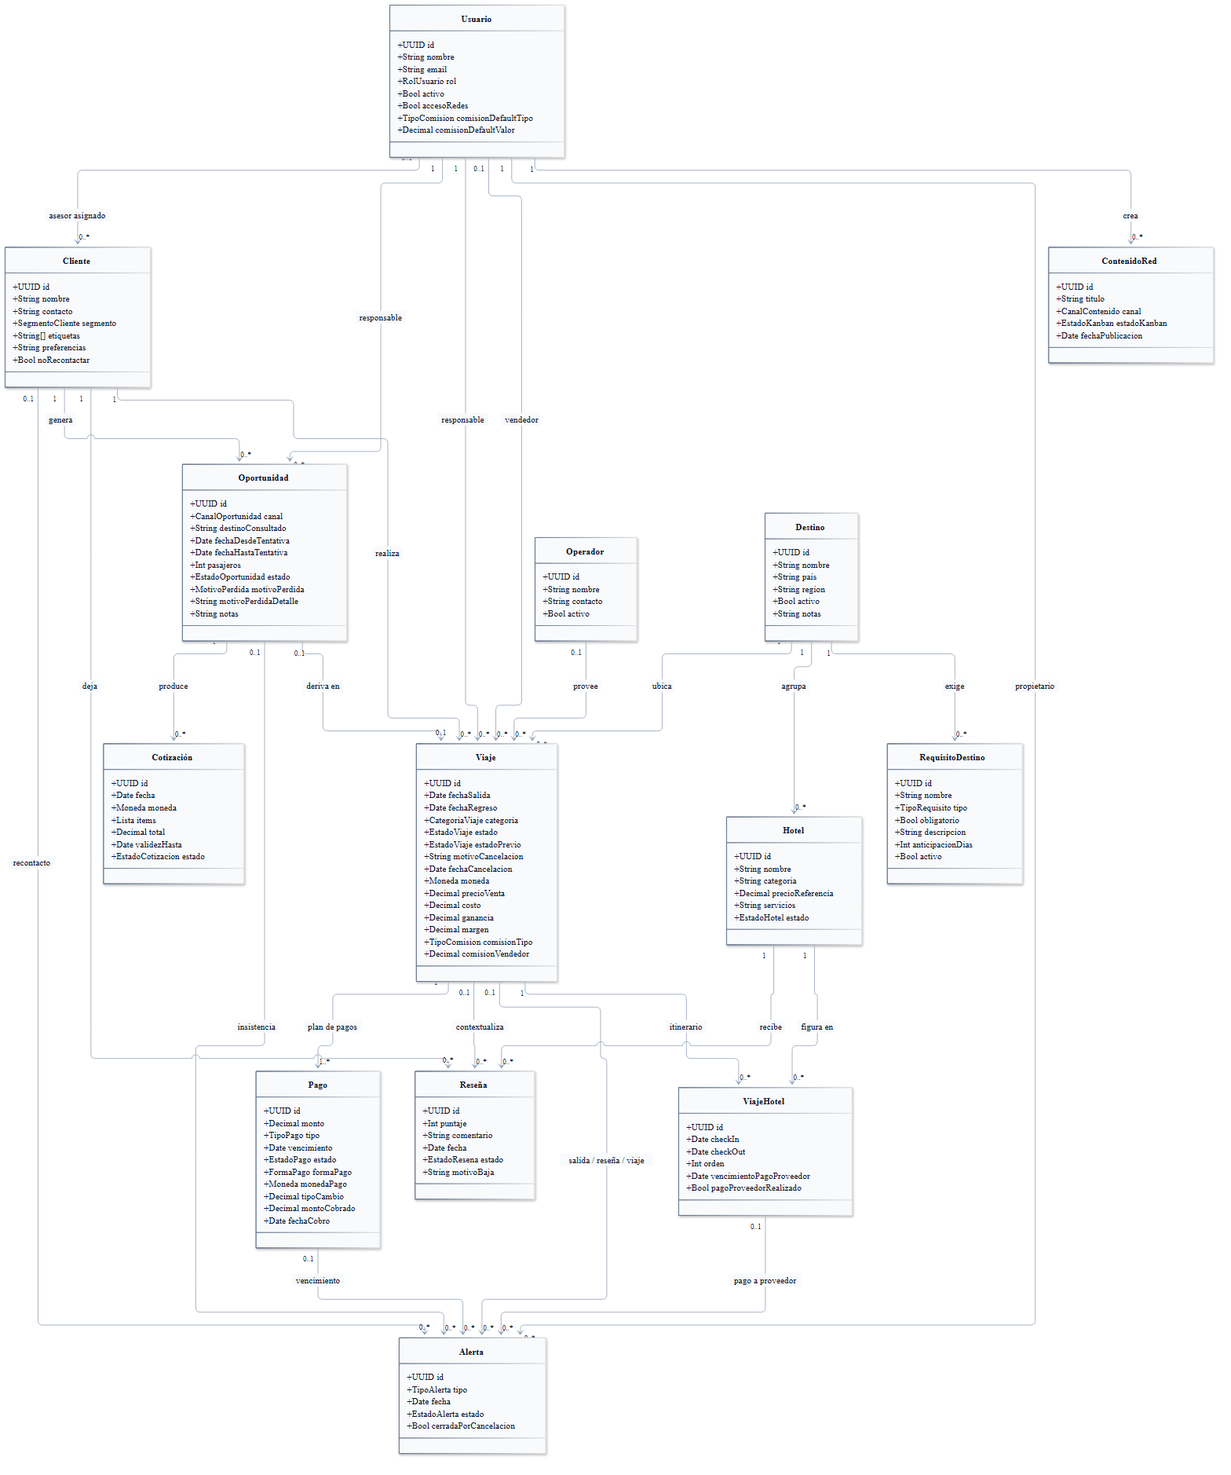
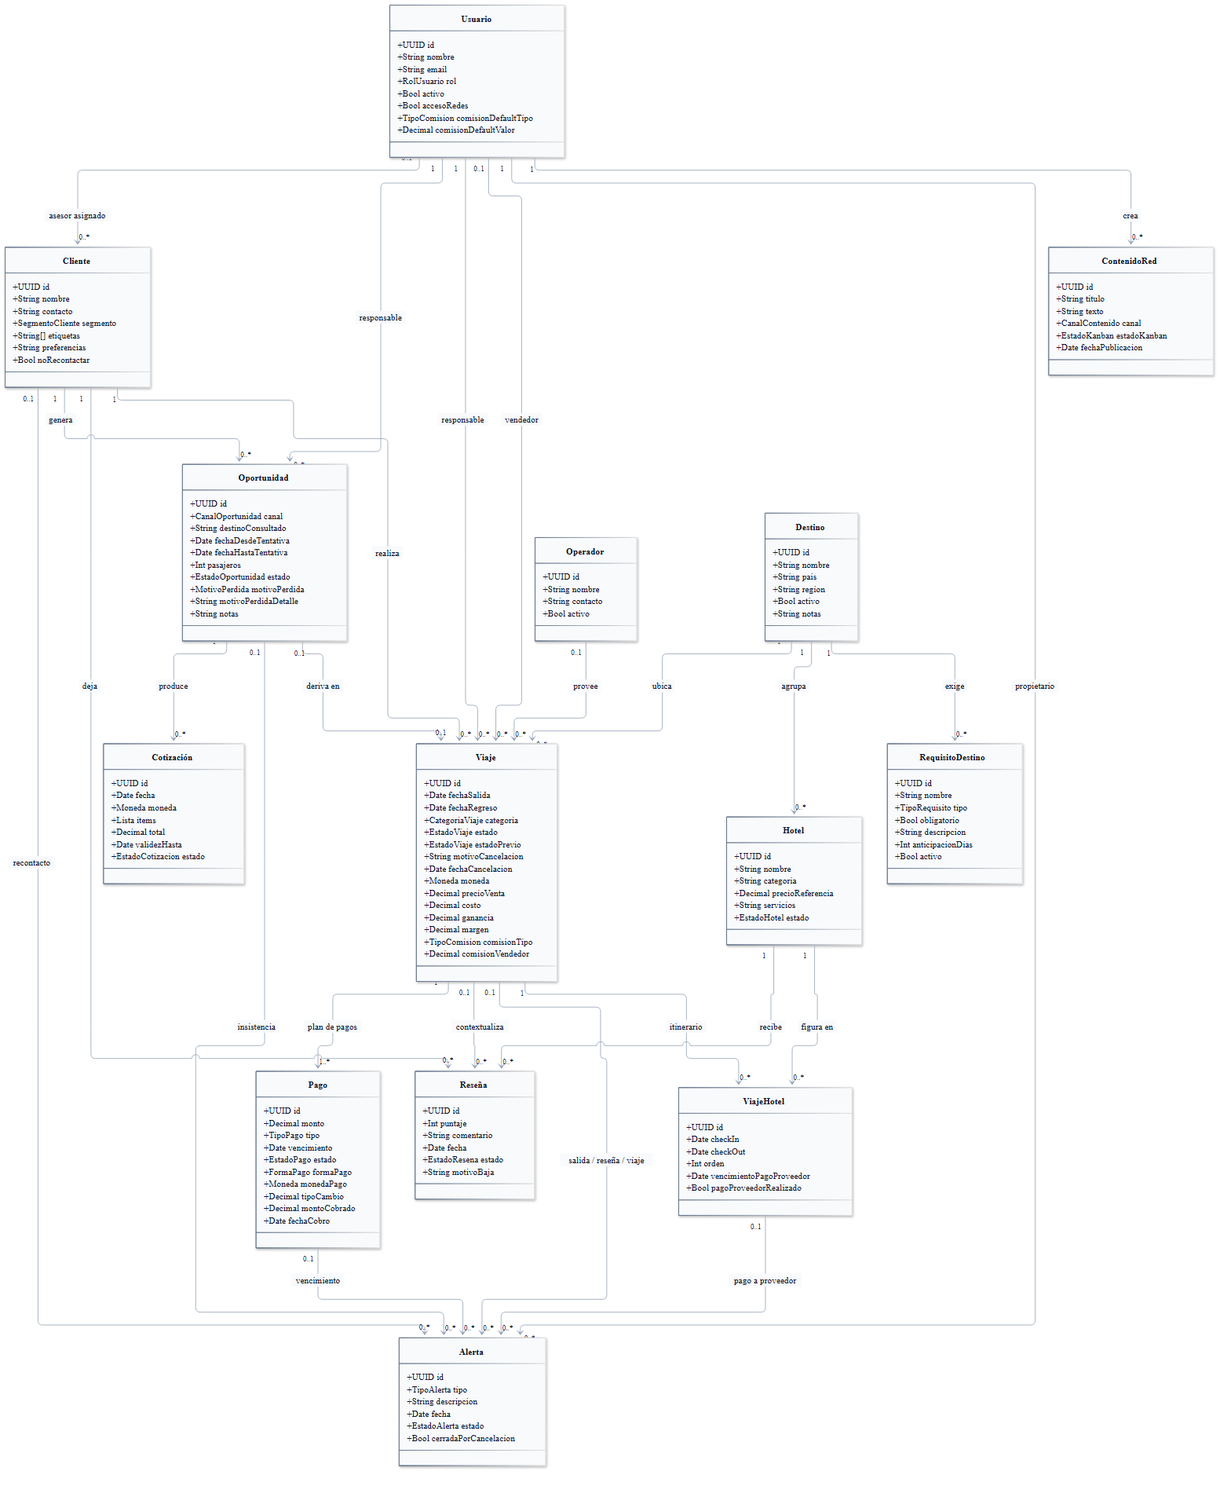
DEC-0013: descripción de la alerta y texto del contenido; quitar un tramo deja su alerta sin origen

diff --git a/05-Diseño/Decisiones/DEC-0013 Datos que faltaban en el ER.md b/05-Diseño/Decisiones/DEC-0013 Datos que faltaban en el ER.md
@@ -14,7 +14,7 @@ tags:: #tipo/decision #estado/en-revision #pc/pc1
 > ⏳ **Aprobada por Nahuel el 29/09/26**, al escribir el script SQL (F2) y el contrato OpenAPI (F1). Se ratifica con el equipo en el cierre del día 2 (A6), junto con ARQ.
 
 ## Contexto
-Al pasar el [[DGM-ER]] a SQL y al derivar los endpoints aparecieron nueve datos que los casos de uso y las decisiones ya piden, pero que el ER no tenía dónde guardar:
+Al pasar el [[DGM-ER]] a SQL y al derivar los endpoints aparecieron once datos que los casos de uso y las decisiones ya piden, pero que el ER no tenía dónde guardar:
 1. [[CU-12 Registrar cobro de un pago|CU-12]] pide la **fecha efectiva del cobro**, y `PAGO` no tenía esa columna.
 2. La **vigencia de la cotización** (1 mes), la **anticipación de la alerta `salida`** (7 días) y el **plazo del recontacto** (6 meses) son configurables por `admin` ([[CU-06 Emitir cotización|CU-06]], [[CU-07 Confirmar reserva|CU-07]], [[CU-30 Sugerir recontacto de clientes|CU-30]]), pero no había tabla de parámetros.
 3. La comisión del vendedor es **importe o porcentaje**, con **default por vendedor** y override por viaje ([[DEC-0007 Modelo económico — ganancia, margen y comisión de vendedor|DEC-0007]], [[CU-13 Configurar porcentaje de comisión|CU-13]]), pero el ER solo tenía `VIAJE.comision_vendedor` como número, sin tipo y sin default en `USUARIO`.
@@ -24,6 +24,8 @@ Al pasar el [[DGM-ER]] a SQL y al derivar los endpoints aparecieron nueve datos 
 7. Los requisitos de [[CU-04 Registrar consulta|CU-04]] y [[CU-05 Seguir oportunidad|CU-05]] piden guardar las **notas** de la consulta y del seguimiento, y `OPORTUNIDAD` no tenía dónde.
 8. Tres requisitos piden guardar un **motivo**: el de pérdida de la `Oportunidad` (lista fija), el de cancelación del `Viaje` (con su fecha, [[CU-27 Cancelar viaje|CU-27]]) y el de baja de una `Reseña` ([[CU-29 Eliminar reseña|CU-29]]). Ninguno estaba en el ER.
 9. En [[CU-09 Armar itinerario de hoteles|CU-09]], cada tramo puede tener su alerta de pago al proveedor, y al editar o pagar el tramo se cierra «su» alerta. Como `ALERTA` solo podía colgar del viaje, con dos tramos no se sabía cuál era cuál.
+10. [[CU-28 Crear recordatorio manual|CU-28]] pide cargar una **descripción** de la tarea, y las alertas automáticas también necesitan un texto; `ALERTA` no tenía ninguno.
+11. [[CU-20 Generar propuesta de contenido con IA|CU-20]] guarda el borrador elegido en una pieza de `ContenidoRed`, pero `CONTENIDO_RED` solo tenía título.
 
 ## Decisión
 1. **`PAGO.fecha_cobro`** (`date`, nullable): se carga al cobrar, junto con `forma_pago` y `moneda_pago`, y se borra si se revierte el cobro.
@@ -35,6 +37,8 @@ Al pasar el [[DGM-ER]] a SQL y al derivar los endpoints aparecieron nueve datos 
 7. **`OPORTUNIDAD.notas`** (`text`, nullable): una bitácora libre que se va editando. Se descartó una tabla de interacciones porque sumaba una entidad nueva a días del PC1; queda como mejora posible.
 8. **Motivos:** `OPORTUNIDAD.motivo_perdida` (nuevo enum `motivo_perdida`: `precio`, `fechas_disponibilidad`, `desistio`, `otra_agencia`, `sin_respuesta`, `otro`) y `motivo_perdida_detalle` (texto, si es `otro`); `VIAJE.motivo_cancelacion` y `fecha_cancelacion`; `RESENA.motivo_baja`. Todos nullable y cargados solo en el estado que corresponde.
 9. **`ALERTA.viaje_hotel_id`** (nullable) como **quinto origen**; el CHECK pasa a «a lo sumo uno de cinco».
+10. **`ALERTA.descripcion`** (`text`, obligatoria): la escribe el empleado en CU-28 y la arma el sistema en las alertas automáticas.
+11. **`CONTENIDO_RED.texto`** (`text`, nullable): el cuerpo del posteo, escrito a mano o completado con el borrador de la IA.
 
 ## Alternativas consideradas
 | Opción | Pros | Contras | ¿Elegida? |
@@ -45,7 +49,7 @@ Al pasar el [[DGM-ER]] a SQL y al derivar los endpoints aparecieron nueve datos 
 | Guardar siempre la comisión como importe ya calculado | Más simple | Se pierde qué porcentaje se aplicó | ❌ |
 
 ## Impacto
-- [[DGM-ER]], [[DGM — Diagrama de clases]] (nuevos enums `TipoComision` y `MotivoPerdida`: son 20) y las notas de [[Pago]], [[Usuario]], [[Viaje]], [[Oportunidad]], [[Reseña]] y [[Alerta]].
+- [[DGM-ER]], [[DGM — Diagrama de clases]] (nuevos enums `TipoComision` y `MotivoPerdida`: son 20) y las notas de [[Pago]], [[Usuario]], [[Viaje]], [[Oportunidad]], [[Reseña]], [[Alerta]] y [[ContenidoRed]].
 - [[Modelo de datos SQL]]: pasa a 15 tablas y 20 enumeraciones.
 - [[Contrato de la API (OpenAPI)]]: los esquemas del circuito de CU-01 y los endpoints de configuración, baja de usuarios, pérdida de oportunidades y cancelación de viajes.
 

diff --git a/03-Dominio/Diagramas/DGM-ER.md b/03-Dominio/Diagramas/DGM-ER.md
@@ -172,6 +172,7 @@ erDiagram
         uuid cliente_id FK "nullable, origen"
         uuid viaje_hotel_id FK "nullable, origen"
         enum tipo "pago, formulario, salida, insistencia, reseña, manual, recontacto, viaje"
+        text descripcion "texto de la tarea, DEC-0013"
         date fecha
         enum estado "pendiente, vista, resuelta"
         boolean cerrada_por_cancelacion "default false"
@@ -180,6 +181,7 @@ erDiagram
         uuid id PK
         uuid usuario_id FK
         varchar titulo
+        text texto "nullable, cuerpo del posteo, DEC-0013"
         enum canal "instagram, tiktok, whatsapp_ventas"
         enum estado_kanban "idea, en_produccion, listo, publicado, descartado"
         date fecha_publicacion "programada"
@@ -230,7 +232,7 @@ erDiagram
 - **Auditoría:** [[DEC-0008 Autenticación propia y rol de vendedor freelance]] exige registrar **autor y fecha** de las acciones. **Decidido en la sync del 29/09:** `created_by` / `updated_by` (FK a `USUARIO`) y `created_at` / `updated_at` van en **todas las tablas de entidad**, operativas y catálogos (las 13 entidades; la tabla asociativa `VIAJE_HOTEL` hereda la auditoría de `VIAJE`). No se dibujan en el diagrama para no multiplicar las líneas hacia `USUARIO`. **`created_by` y `updated_by` son nullable** (aprobado el 29/09): lo que hace el proceso automático diario los deja **vacíos**, y un autor vacío se lee como «lo hizo el sistema». `created_at` y `updated_at` siempre se cargan.
 - `VIAJE.destino_id` y `HOTEL.destino_id` son FK a `DESTINO` (antes texto libre): ver [[DEC-0006 Destino como entidad de catálogo]]. `OPORTUNIDAD.destino_consultado` sigue siendo **texto libre** y se normaliza recién al derivar en `VIAJE`.
 - `VIAJE` suma `operador_id`, `vendedor_id`, `moneda`, `costo`, `ganancia`, `margen` y `comision_vendedor` — ver [[DEC-0007 Modelo económico — ganancia, margen y comisión de vendedor]] y [[DEC-0009 Operador-Proveedor como entidad de catálogo]] (sync 17/09). `ganancia` y `margen` son **calculados**: se pueden materializar como columnas generadas o resolver en la vista.
-- **Datos sumados al escribir el SQL** ([[DEC-0013 Datos que faltaban en el ER]], 29/09, a ratificar): `PAGO.fecha_cobro`; `VIAJE.comision_tipo` (`importe` o `porcentaje`), `VIAJE.estado_previo` (para revertir una cancelación), `VIAJE.motivo_cancelacion` y `fecha_cancelacion`; en `OPORTUNIDAD`, `notas` y el motivo de pérdida (lista fija más detalle si es `otro`); `RESENA.motivo_baja`; `ALERTA.viaje_hotel_id` como quinto origen; en `USUARIO`, `activo` (baja lógica), `acceso_redes` y la comisión por defecto del vendedor (`comision_default_tipo` y `comision_default_valor`); y la tabla **`CONFIGURACION`**, de una sola fila, con los parámetros que edita `admin` (vigencia de la cotización, anticipación de la alerta `salida` y plazo del recontacto). `CONFIGURACION` es una tabla de parámetros, no una entidad del dominio, y no se relaciona con las demás. Con ella el esquema tiene **15 tablas**.
+- **Datos sumados al escribir el SQL** ([[DEC-0013 Datos que faltaban en el ER]], 29/09, a ratificar): `PAGO.fecha_cobro`; `VIAJE.comision_tipo` (`importe` o `porcentaje`), `VIAJE.estado_previo` (para revertir una cancelación), `VIAJE.motivo_cancelacion` y `fecha_cancelacion`; en `OPORTUNIDAD`, `notas` y el motivo de pérdida (lista fija más detalle si es `otro`); `RESENA.motivo_baja`; `ALERTA.viaje_hotel_id` como quinto origen y `ALERTA.descripcion`; `CONTENIDO_RED.texto`; en `USUARIO`, `activo` (baja lógica), `acceso_redes` y la comisión por defecto del vendedor (`comision_default_tipo` y `comision_default_valor`); y la tabla **`CONFIGURACION`**, de una sola fila, con los parámetros que edita `admin` (vigencia de la cotización, anticipación de la alerta `salida` y plazo del recontacto). `CONFIGURACION` es una tabla de parámetros, no una entidad del dominio, y no se relaciona con las demás. Con ella el esquema tiene **15 tablas**.
 - `COTIZACION.items` se modela como **`jsonb`**, no como tabla propia: decidido el 21/09 no promoverlo a entidad ([[DGM — Diagrama de clases]], punto 4). Si más adelante hacen falta reportes por concepto, se reabre.
 - Relación N:M `VIAJE`–`HOTEL` y objeto de la `RESENA` (Hotel + Cliente, con Viaje opcional): ver [[DEC-0003 Relación Viaje–Hotel y Reseña]].
 

diff --git a/05-Diseño/Datos/Modelo de datos SQL.md b/05-Diseño/Datos/Modelo de datos SQL.md
@@ -26,7 +26,7 @@ tags:: #tipo/analisis #estado/borrador #pc/pc1
   - Estados con datos propios: una `oportunidad` `perdida` exige su motivo; un `viaje` `cancelado` exige estado previo, motivo y fecha de cancelación (y fuera de ese estado los tres quedan vacíos); una `resena` `oculta` exige el motivo de la baja.
   - `configuracion` admite una sola fila (`id = 1`).
   - Chequeos de sentido común: fechas de regreso y de check-out que no quedan antes de las de inicio, puntaje de reseña de 1 a 5, montos no negativos y al menos un pasajero.
-- **Bajas lógicas:** ninguna FK borra en cascada, porque en Rumbo nada se elimina físicamente.
+- **Bajas lógicas:** ninguna FK borra en cascada, porque en Rumbo nada se elimina físicamente (RF-153). La única eliminación física prevista es **quitar un tramo** del itinerario (CU-09 A3), que es una fila de asociación: por eso `alerta.viaje_hotel_id` usa `ON DELETE SET NULL` y la alerta ya cerrada del tramo se conserva sin origen.
 
 ## Lo que queda en la API y no en la base
 - **Todo viaje tiene al menos un pago** (`VIAJE ||--|{ PAGO`): una FK no puede exigir filas hijas, así que lo garantiza el servicio de CU-07.
@@ -38,8 +38,8 @@ tags:: #tipo/analisis #estado/borrador #pc/pc1
 - Largos de `varchar` y precisión de `numeric` (`numeric(14,2)` para importes y `numeric(14,4)` para el tipo de cambio) son decisiones de implementación, no datos del negocio.
 
 ## Validación
-Se validó el 29/09/26 en un **PostgreSQL 18.3** local, en un clúster temporal creado solo para la prueba y borrado al terminar. El script corre completo sin errores y deja 15 tablas y 20 enumeraciones, con la fila de `configuracion` cargada con los valores validados con la agencia (1 mes, 7 días y 6 meses). Además se probaron 20 casos dentro de una transacción que se deshizo al final:
-- **6 permitidos:** un usuario con `created_by` vacío; el mismo hotel en dos tramos del mismo viaje; una alerta manual sin origen; una alerta de pago al proveedor colgada del tramo; el cálculo de `ganancia` (250.000) y `margen` (0,25) para una venta de $ 1.000.000 con costo de $ 750.000; y la cancelación de un viaje con estado previo, motivo y fecha.
+Se validó el 29/09/26 en un **PostgreSQL 18.3** local, en un clúster temporal creado solo para la prueba y borrado al terminar. El script corre completo sin errores y deja 15 tablas y 20 enumeraciones, con la fila de `configuracion` cargada con los valores validados con la agencia (1 mes, 7 días y 6 meses). Además se probaron 21 casos dentro de una transacción que se deshizo al final:
+- **7 permitidos:** un usuario con `created_by` vacío; el mismo hotel en dos tramos del mismo viaje; una alerta manual sin origen; una alerta de pago al proveedor colgada del tramo; el cálculo de `ganancia` (250.000) y `margen` (0,25) para una venta de $ 1.000.000 con costo de $ 750.000; la cancelación de un viaje con estado previo, motivo y fecha; y quitar un tramo que tenía alerta, que deja la alerta sin origen en lugar de fallar.
 - **14 rechazados, como se esperaba:** una alerta con dos orígenes; otra con viaje y tramo a la vez; un `orden` repetido en el mismo viaje; dos viajes desde la misma oportunidad; un puntaje de 6; un regreso anterior a la salida; un valor de enum inexistente; un email de usuario repetido; una FK a un cliente inexistente; una segunda fila de `configuracion`; una comisión de viaje mayor al 100 %; una comisión por defecto con tipo pero sin valor; un viaje `cancelado` sin estado previo; y una oportunidad `perdida` sin motivo.
 
 Para repetir la prueba sobre una base vacía:

diff --git a/00-Inicio/Bitácora de sesiones.md b/00-Inicio/Bitácora de sesiones.md
@@ -31,8 +31,8 @@ Es **obligatorio** nombrar a la persona que hizo la sesión.
 ```
 
 ## 29/09/26 — Nahuel (Claude Opus 5.5) — DEC-0013: datos que faltaban en el ER
-- **Hecho:** Al preparar F2 y F1 aparecieron nueve datos que los CU y los RF piden y el ER no guardaba. Nahuel aprobó las nueve propuestas y quedaron en [[DEC-0013 Datos que faltaban en el ER]] (`en-revision`, a ratificar en A6): `PAGO.fecha_cobro`, tabla `CONFIGURACION` de una fila (1 mes, 7 días y 6 meses), comisión con `tipo_comision` en `VIAJE` y default por vendedor en `USUARIO`, `USUARIO.acceso_redes`, `USUARIO.activo`, `VIAJE.estado_previo`, `OPORTUNIDAD.notas`, los motivos de pérdida (enum), cancelación y baja de reseña, y `ALERTA.viaje_hotel_id` como quinto origen. Propagado a [[DGM-ER]], [[DGM — Diagrama de clases]] (20 enums), las entidades [[Pago]], [[Usuario]], [[Viaje]], [[Oportunidad]], [[Reseña]] y [[Alerta]], ARQ y [[Modelo de datos SQL]].
-- **Verificado:** PNG de clases y ER regenerados; el script vuelve a correr en PostgreSQL 18.3 (15 tablas, 20 enums) y pasan 20 casos de prueba (6 permitidos y 14 rechazados).
+- **Hecho:** Al preparar F2 y F1 aparecieron once datos que los CU y los RF piden y el ER no guardaba. Nahuel aprobó las once propuestas y quedaron en [[DEC-0013 Datos que faltaban en el ER]] (`en-revision`, a ratificar en A6): `PAGO.fecha_cobro`, tabla `CONFIGURACION` de una fila (1 mes, 7 días y 6 meses), comisión con `tipo_comision` en `VIAJE` y default por vendedor en `USUARIO`, `USUARIO.acceso_redes`, `USUARIO.activo`, `VIAJE.estado_previo`, `OPORTUNIDAD.notas`, los motivos de pérdida (enum), cancelación y baja de reseña, `ALERTA.viaje_hotel_id` como quinto origen, `ALERTA.descripcion` y `CONTENIDO_RED.texto`. Propagado a [[DGM-ER]], [[DGM — Diagrama de clases]] (20 enums), las entidades [[Pago]], [[Usuario]], [[Viaje]], [[Oportunidad]], [[Reseña]], [[Alerta]] y [[ContenidoRed]], ARQ y [[Modelo de datos SQL]].
+- **Verificado:** PNG de clases y ER regenerados; el script vuelve a correr en PostgreSQL 18.3 (15 tablas, 20 enums) y pasan 21 casos de prueba (7 permitidos y 14 rechazados). Quitar un tramo (CU-09 A3) es la única eliminación física: `alerta.viaje_hotel_id` usa `ON DELETE SET NULL`.
 
 ## 29/09/26 — Nahuel (Claude Opus 5.5) — F2: script SQL
 - **Hecho:** `05-Diseño/Datos/rumbo.sql` con las 14 tablas y los 18 enums del [[DGM-ER]], `gen_random_uuid()`, auditoría nullable, el CHECK de origen de `alerta`, la unicidad de `viaje_hotel` y `ganancia`/`margen` como columnas calculadas. Nota índice: [[Modelo de datos SQL]].

diff --git a/00-Inicio/Estado del proyecto.md b/00-Inicio/Estado del proyecto.md
@@ -68,7 +68,7 @@ Los tres tomamos **los tres roles** (Coordinador de vault · Guardián del domin
 - ✅ **Arquitectura en tres capas + `core`** (A3, Nahuel): ver *Vista lógica del backend* en [[ARQ — Vista general]].
 - ✅ **Auditoría del proceso automático** (aprobado 29/09, Nahuel con el equipo): lo que hace `jobs.diario` queda con `created_by`/`updated_by` **vacíos** (= «lo hizo el sistema»), así que esas columnas son **nullable** en el script SQL (F2). ✅ Anotado en [[DGM-ER]] junto a la nota de auditoría.
 - ✅ **Ajustes del túnel** (aprobado 29/09): ✅ aplicados en [[DEC-0011 Infraestructura de despliegue on-premise]] y en la vista de despliegue de ARQ (PNG regenerado): (1) quinto contenedor `cloudflared` en el Compose, con el token en el `.env` del servidor; (2) riesgo aceptado: Cloudflare termina el TLS y ve el tráfico descifrado; (3) **todos** los usuarios, también desde la red local, entran por la URL del túnel (la entrada local directa queda solo como respaldo si se cae internet).
-- ⏳ **[[DEC-0013 Datos que faltaban en el ER]]** (aprobada por Nahuel el 29/09 al escribir F2; **a ratificar en A6**): `Pago.fecha_cobro`, tabla `configuracion` de una fila (vigencia de cotización, anticipación de `salida` y recontacto), comisión con tipo (`importe`/`porcentaje`) y default por vendedor en `Usuario`, `Usuario.acceso_redes`, `Usuario.activo` (baja lógica), `Viaje.estado_previo` (revertir una cancelación), `Oportunidad.notas`, los motivos de pérdida, cancelación y baja de reseña, y el tramo del itinerario como quinto origen de la `Alerta`. Ya propagada a ER, clases, entidades y SQL.
+- ⏳ **[[DEC-0013 Datos que faltaban en el ER]]** (aprobada por Nahuel el 29/09 al escribir F2; **a ratificar en A6**): `Pago.fecha_cobro`, tabla `configuracion` de una fila (vigencia de cotización, anticipación de `salida` y recontacto), comisión con tipo (`importe`/`porcentaje`) y default por vendedor en `Usuario`, `Usuario.acceso_redes`, `Usuario.activo` (baja lógica), `Viaje.estado_previo` (revertir una cancelación), `Oportunidad.notas`, los motivos de pérdida, cancelación y baja de reseña, el tramo del itinerario como quinto origen de la `Alerta`, `Alerta.descripcion` y `ContenidoRed.texto`. Ya propagada a ER, clases, entidades y SQL.
 
 ### Día 1 — mié 30/09: construir las bases
 - **Nahuel:** A2 (vista de despliegue con DEC-0011) → A3 (vista lógica del backend) → **F2** script SQL validado contra un PostgreSQL local.

diff --git a/03-Dominio/Diagramas/DGM — Diagrama de clases.md b/03-Dominio/Diagramas/DGM — Diagrama de clases.md
@@ -163,6 +163,7 @@ classDiagram
     class Alerta {
         +UUID id
         +TipoAlerta tipo
+        +String descripcion
         +Date fecha
         +EstadoAlerta estado
         +Bool cerradaPorCancelacion
@@ -170,6 +171,7 @@ classDiagram
     class ContenidoRed {
         +UUID id
         +String titulo
+        +String texto
         +CanalContenido canal
         +EstadoKanban estadoKanban
         +Date fechaPublicacion
@@ -452,7 +454,7 @@ Se señalaron sin elegir una versión en silencio, según [[CLAUDE|CLAUDE.md#Ord
 - ✅ Lo resuelto el 21/09 ya está propagado a [[DGM-ER]] (`VIAJE ||--|{ PAGO` y los 4 orígenes de `ALERTA`) y a la nota de [[Viaje]].
 - ✅ El [[DGM-ER]] quedó **completo y coherente** con este diagrama el 21/09: sumó los atributos de las 14 tablas y las 4 relaciones que le faltaban (`USUARIO`–`ALERTA`, `USUARIO`–`CLIENTE`, `USUARIO`–`OPORTUNIDAD`, `DESTINO`–`REQUISITO_DESTINO`).
 - ✅ Auditoría (sync 29/09): `created_by`/`updated_by`/`created_at`/`updated_at` en **todas** las tablas de entidad (operativas y catálogos); no se dibujan para no multiplicar las líneas hacia `Usuario`. Ver [[DGM-ER]].
-- ⏳ [[DEC-0013 Datos que faltaban en el ER]] (29/09, a ratificar): `Pago.fechaCobro`, `Viaje.comisionTipo`, `Viaje.estadoPrevio`, `Usuario.activo`, `Usuario.accesoRedes`, la comisión por defecto del vendedor (enum `TipoComision`), `Oportunidad.notas` y `motivoPerdida` (enum `MotivoPerdida`), `Viaje.motivoCancelacion` y `fechaCancelacion`, `Reseña.motivoBaja` y el tramo (`ViajeHotel`) como quinto origen de la `Alerta`.
+- ⏳ [[DEC-0013 Datos que faltaban en el ER]] (29/09, a ratificar): `Pago.fechaCobro`, `Viaje.comisionTipo`, `Viaje.estadoPrevio`, `Usuario.activo`, `Usuario.accesoRedes`, la comisión por defecto del vendedor (enum `TipoComision`), `Oportunidad.notas` y `motivoPerdida` (enum `MotivoPerdida`), `Viaje.motivoCancelacion` y `fechaCancelacion`, `Reseña.motivoBaja`, el tramo (`ViajeHotel`) como quinto origen de la `Alerta`, `Alerta.descripcion` y `ContenidoRed.texto`.
 - Renderizar el PNG (mermaid-cli, motor ELK) cuando el diagrama se incorpore a un entregable — ver [[Entregables — índice]].
 
 ## Relacionado

diff --git a/03-Dominio/Entidades/Alerta.md b/03-Dominio/Entidades/Alerta.md
@@ -19,6 +19,7 @@ Recordatorio automático para no perder vencimientos ni tareas: pagos, formulari
 |---|---|---|
 | id | UUID | Identificador |
 | tipo | Enum | `pago · formulario · salida · insistencia · reseña · manual · recontacto · viaje` — `pago` (vencimiento de cuota/proveedor, [[CU-12 Registrar cobro de un pago]]/[[CU-09 Armar itinerario de hoteles]]), `formulario` (requisito de destino: visa, vacunación, documentación, seguro, voucher… la categoría fina la da [[RequisitoDestino]]`.tipo`, no se duplica acá — [[CU-07 Confirmar reserva]]/[[CU-15 Configurar recordatorios por destino]]), `salida` (aviso de próxima salida del viaje — [[CU-07 Confirmar reserva]]), `insistencia` ([[CU-05 Seguir oportunidad]]), `reseña` ([[CU-08 Gestionar estado del viaje]]), `manual` ([[CU-28 Crear recordatorio manual]]), `recontacto` ([[CU-30 Sugerir recontacto de clientes]]), `viaje` (sugerencia de pasar el [[Viaje]] a `en curso` o `finalizado`, generada por el proceso automático diario el día de salida y el de regreso — [[CU-08 Gestionar estado del viaje]]) |
+| descripcion | Texto | Qué hay que hacer: la escribe el empleado en un recordatorio manual ([[CU-28 Crear recordatorio manual|CU-28]]) y la arma el sistema en las automáticas — [[DEC-0013 Datos que faltaban en el ER|DEC-0013]] |
 | fecha | Date (dd/mm/aa) | Cuándo dispara |
 | estado | Enum | pendiente · vista · resuelta |
 | propietario | FK → [[Usuario]] | Quien la recibe/creó; define la agenda personal. Ver [[DEC-0005 Autenticación y modelo de roles]] |

diff --git a/03-Dominio/Entidades/ContenidoRed.md b/03-Dominio/Entidades/ContenidoRed.md
@@ -19,6 +19,7 @@ Pieza de contenido para redes sociales, gestionada en un **tablero kanban** con 
 |---|---|---|
 | id | UUID | Identificador |
 | titulo | String | Título / idea |
+| texto | Texto (opcional) | Cuerpo del posteo: se escribe a mano o se completa con el borrador elegido en [[CU-20 Generar propuesta de contenido con IA|CU-20]] — [[DEC-0013 Datos que faltaban en el ER|DEC-0013]] |
 | canal | Enum | instagram · tiktok · whatsapp_ventas |
 | estadoKanban | Enum | idea · en producción · listo · publicado · **descartado** — `descartado` es la **baja lógica** de una pieza que no va más (se conserva, no se borra); no sale desde `publicado`. Sumado 21/09, ver [[EST-ContenidoRed]] |
 | fechaPublicacion | Date (dd/mm/aa) | Programada |
